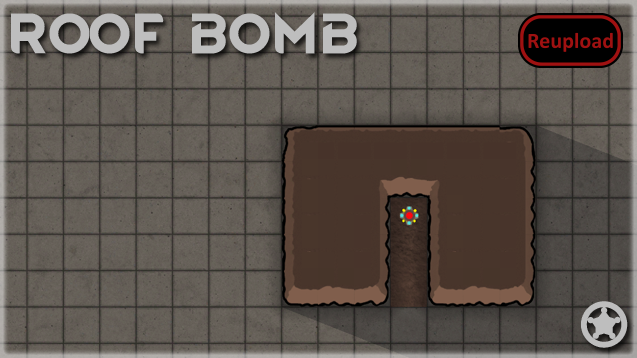
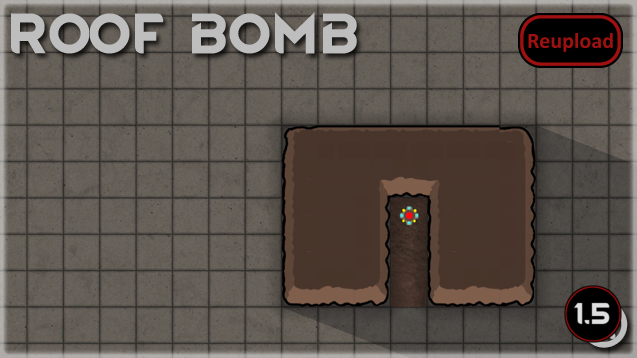
Mod updated for 1.5 and passed autotests

Changed region(s): [[0.865, 0.7989, 0.9843, 0.9832]]

diff --git a/README.md b/README.md
@@ -23,11 +23,13 @@ Adds an explosive device capable of removing roofs. More than 1 may be required,
 
 -  See if the the error persists if you just have this mod and its requirements active.
 -  If not, try adding your other mods until it happens again.
--  Post your error-log using https://steamcommunity.com/workshop/filedetails/?id=818773962]HugsLib and command Ctrl+F12
+-  Post your error-log using https://steamcommunity.com/workshop/filedetails/?id=818773962]HugsLib or the standalone https://steamcommunity.com/sharedfiles/filedetails/?id=2873415404]Uploader and command Ctrl+F12
 -  For best support, please use the Discord-channel for error-reporting.
 -  Do not report errors by making a discussion-thread, I get no notification of that.
 -  If you have the solution for a problem, please post it to the GitHub repository.
+-  Use https://github.com/RimSort/RimSort/releases/latest]RimSort to sort your mods
 
 
 
+https://steamcommunity.com/sharedfiles/filedetails/changelog/2580296994]![Image](https://img.shields.io/github/v/release/emipa606/RoofBomb?label=latest%20version&style=plastic&color=9f1111&labelColor=black)
 
